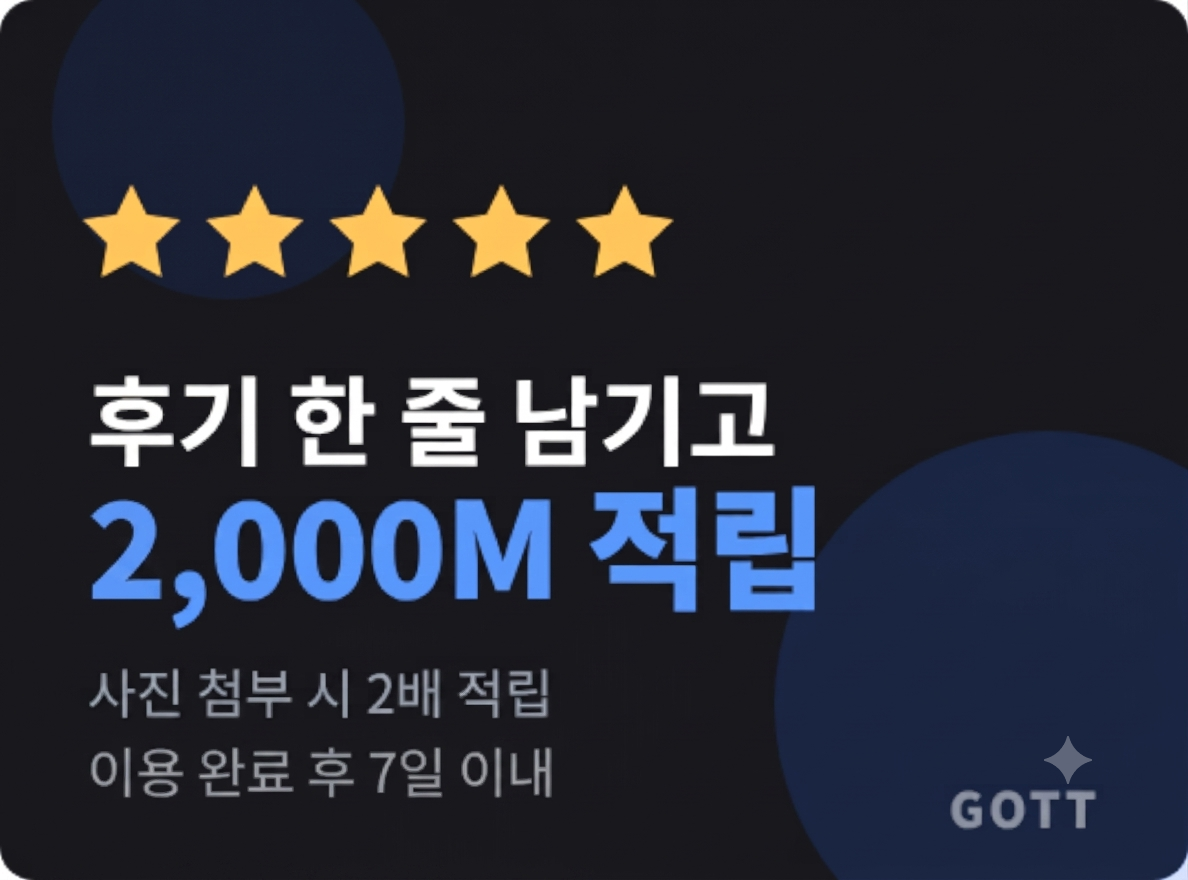
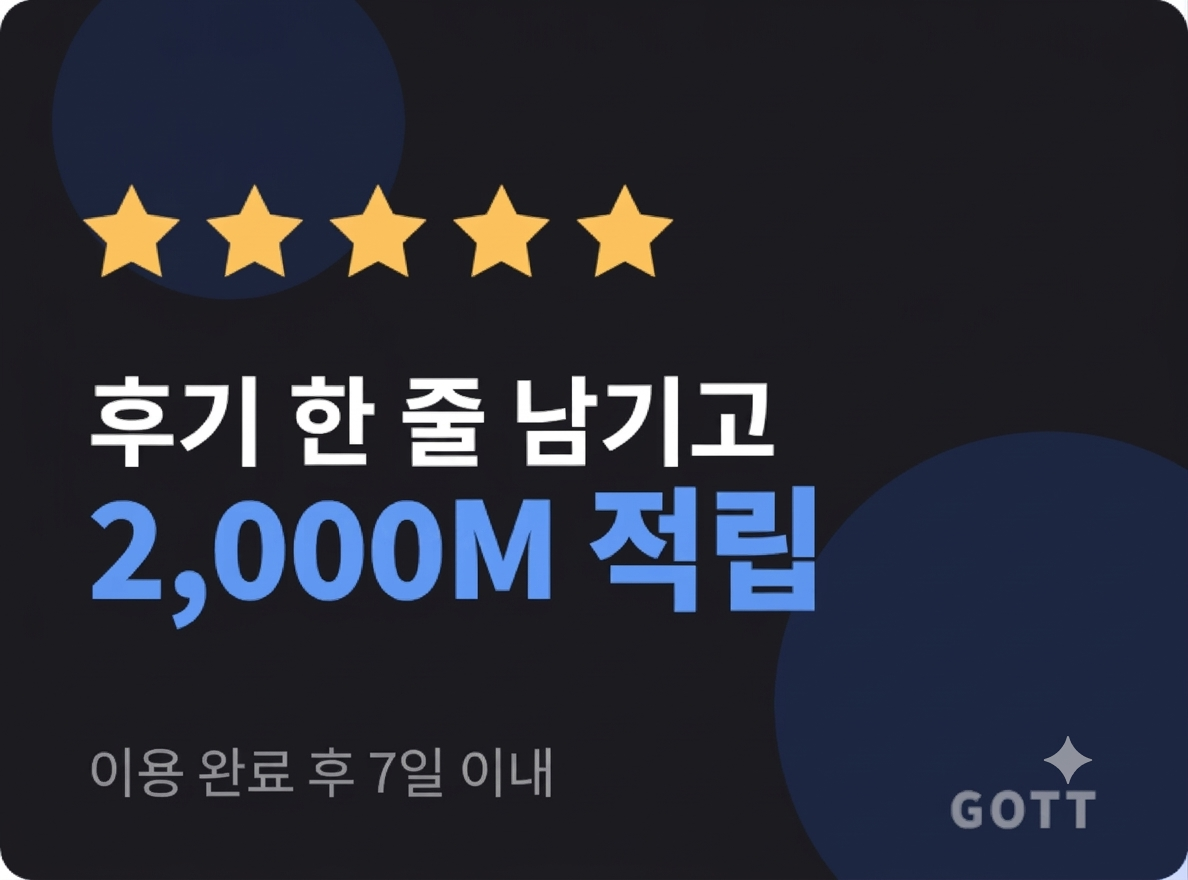
회원탈퇴 유무

diff --git a/src/main/java/com/kedu/dao/MembersDAO.java b/src/main/java/com/kedu/dao/MembersDAO.java
@@ -22,7 +22,7 @@ public class MembersDAO {
 	public int login(MembersDTO mdto) {
 		
 		String pw = EncryptionUtils.encryptSHA512(mdto.getPw());
-		String sql = "select count(*) from members where id=? and pw=?";
+		String sql = "select count(*) from members where id=? and pw=? and active_yn='y'";
 		return jdbc.queryForObject(sql, Integer.class, mdto.getId(), pw);
 	}
 	
@@ -39,7 +39,7 @@ public class MembersDAO {
 
 	@Transactional
 	public int signup(MembersDTO mdto) {
-	    String sql = "INSERT INTO members VALUES(?, ?, ?, ?, ?, ?, ?, ?, ?, ?, ?, SYSTIMESTAMP, 2000, 'user', ?)";
+	    String sql = "INSERT INTO members VALUES(?, ?, ?, ?, ?, ?, ?, ?, ?, ?, ?, SYSTIMESTAMP, 2000, 'user', ?, 'y')";
 	    int result = jdbc.update(sql, mdto.getId(), mdto.getPw(), mdto.getName(), mdto.getNickname(),
 	            mdto.getPhone(), mdto.getEmail(), mdto.getGender(), mdto.getDob(), mdto.getZipcode(),
 	            mdto.getAddress1(), mdto.getAddress2(), mdto.getPrivacy_agree());
@@ -64,8 +64,12 @@ public class MembersDAO {
 
 	
 	public MembersDTO selectById(String id) {
-		String sql = "select * from members where id=?";
-		return jdbc.queryForObject(sql, new BeanPropertyRowMapper<>(MembersDTO.class), id);
+		String sql = "select * from members where id=? and active_yn = 'y'";
+		try {
+			return jdbc.queryForObject(sql, new BeanPropertyRowMapper<>(MembersDTO.class), id);
+		} catch (EmptyResultDataAccessException e) {
+			return null;
+		}
 	}
 	
 	public int getMileage(String memberId) {
@@ -74,7 +78,7 @@ public class MembersDAO {
 	}
 
 	public int deleted(String id, MembersDTO mdto) {
-	    String sql = "delete from members where id = ? and pw = ?";
+	    String sql = "update members set active_yn = 'n' where id = ? and pw =? and active_yn = 'y'";
 	    return jdbc.update(sql, id, mdto.getPw());
 	}
 	

diff --git a/src/main/java/com/kedu/controllers/EventControllers.java b/src/main/java/com/kedu/controllers/EventControllers.java
@@ -2,6 +2,8 @@ package com.kedu.controllers;
 
 import java.util.List;
 
+import javax.servlet.http.HttpSession;
+
 import org.springframework.beans.factory.annotation.Autowired;
 import org.springframework.stereotype.Controller;
 import org.springframework.ui.Model;
@@ -9,6 +11,7 @@ import org.springframework.web.bind.annotation.RequestMapping;
 import org.springframework.web.bind.annotation.RequestParam;
 
 import com.kedu.dao.BannerDAO;
+import com.kedu.dao.CouponDAO;
 import com.kedu.dto.BannerDTO;
 
 @Controller
@@ -18,6 +21,9 @@ public class EventControllers {
 	
 	@Autowired
 	private BannerDAO bannerDAO;
+	
+	@Autowired
+	private CouponDAO cdao;
 	
 	@RequestMapping("/eventpage")
 	public String eventpage(Model model) {
@@ -47,4 +53,26 @@ public class EventControllers {
 	public String company() {
 		return "company";
 	}
+	
+	@RequestMapping("/autumn")
+	public String autumn(HttpSession session, Model model) {
+		
+		String id = (String) session.getAttribute("loginId");
+		
+		if (id == null) {
+			return "/members/loginpage";
+		}
+		
+		int count = cdao.countMyAutumn(id);
+		
+		if(count == 0) {
+			cdao.insertAutumn(id);
+			session.setAttribute("autumn", "단풍 명소 숙소 쿠폰이 발급되었습니다.");
+		} else {
+			session.setAttribute("autumn", "해당 쿠폰은 중복 발급이 불가능합니다.");
+		}
+		
+		return "redirect:/coupon/myCoupon";
+	}
+	
 }

diff --git a/src/main/java/com/kedu/dao/CouponDAO.java b/src/main/java/com/kedu/dao/CouponDAO.java
@@ -114,5 +114,25 @@ public class CouponDAO {
 					+ ")";
 		    return jdbc.update(sql, memberId, memberId, memberId, memberId, memberId);
 		}
-
+		// 단풍 명소 10% 쿠폰 조회
+		public int countMyAutumn(String id) {
+			String sql = "select count(*) from members_coupon where member_id = ? and coupon_id = 6";
+			
+	        return jdbc.queryForObject(sql, Integer.class, id);
+		}
+		
+		// 단풍 명소 10% 쿠폰 발급
+		public int insertAutumn(String id) {
+			String sql = "insert into members_coupon "
+	                + "(member_coupon_id, coupon_id, member_id, issue_date, expire_date, status) "
+	                + "select member_coupon_seq.nextval, coupon_id, ?, sysdate, "
+	                + "least(end_date, add_months(sysdate, 3)), 'AVAILABLE' "
+	                + "from coupon "
+	                + "where coupon_id = 6 "
+	                + "and active_yn = 'Y' "
+	                + "and start_date <= sysdate "
+	                + "and end_date >= sysdate";
+			
+			return jdbc.update(sql, id);
+		}
 }

diff --git a/src/main/java/com/kedu/dao/Travel_TypeDAO.java b/src/main/java/com/kedu/dao/Travel_TypeDAO.java
@@ -66,4 +66,6 @@ public class Travel_TypeDAO {
 
         return jdbc.update(sql, memberId);
     }
+    
+    
 }
